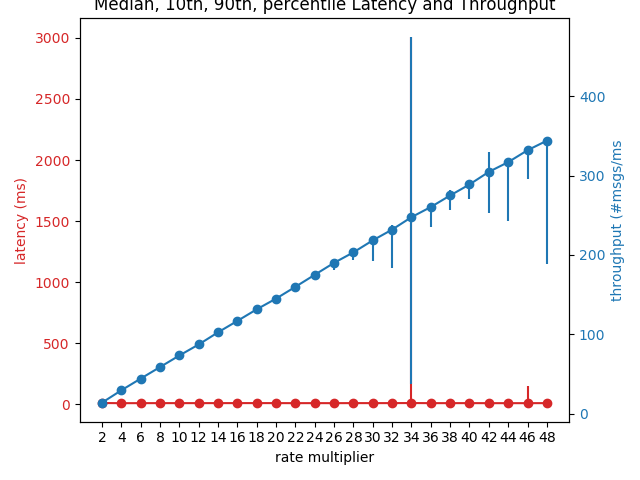
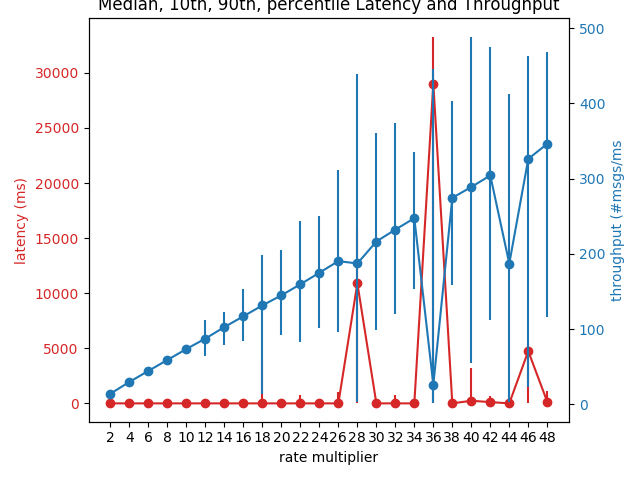
New plots from yesterday

diff --git a/analysis/plot_scaling_latency_throughput.py b/analysis/plot_scaling_latency_throughput.py
@@ -67,7 +67,11 @@ def common_plot_scaleup(dirname, dirnames, xticks, xlabel, output_name):
     # ax1.plot(inds, ten_latencies, '-o', label='10th percentile latency', color=color)
     # ax1.plot(inds, ninety_latencies, '-o', label='90th percentile latency', color=color)
     ax1.tick_params(axis='y', labelcolor=color)
-
+    # ax1.set_ylim(top=max(ninety_latencies) * 1.1)
+    # ax1.set_ylim(top=50)
+    # ax1.set_yscale("log")
+    ax1.set_ylim(bottom=0)
+    
     
     ## Plot all throughputs
     ax2 = ax1.twinx()  # instantiate a second axes that shares the same x-axis
@@ -81,6 +85,7 @@ def common_plot_scaleup(dirname, dirnames, xticks, xlabel, output_name):
     # ax2.plot(inds, ten_throughputs, '-o', label='10th percentile throughput', color=color)
     # ax2.plot(inds, ninety_throughputs, '-o', label='90th percentile throughput', color=color)
     ax2.tick_params(axis='y', labelcolor=color)
+    ax2.set_ylim(bottom=0)
     
     fig.tight_layout()  # otherwise the right y-label is slightly clipped
     # plt.legend(loc='best')
